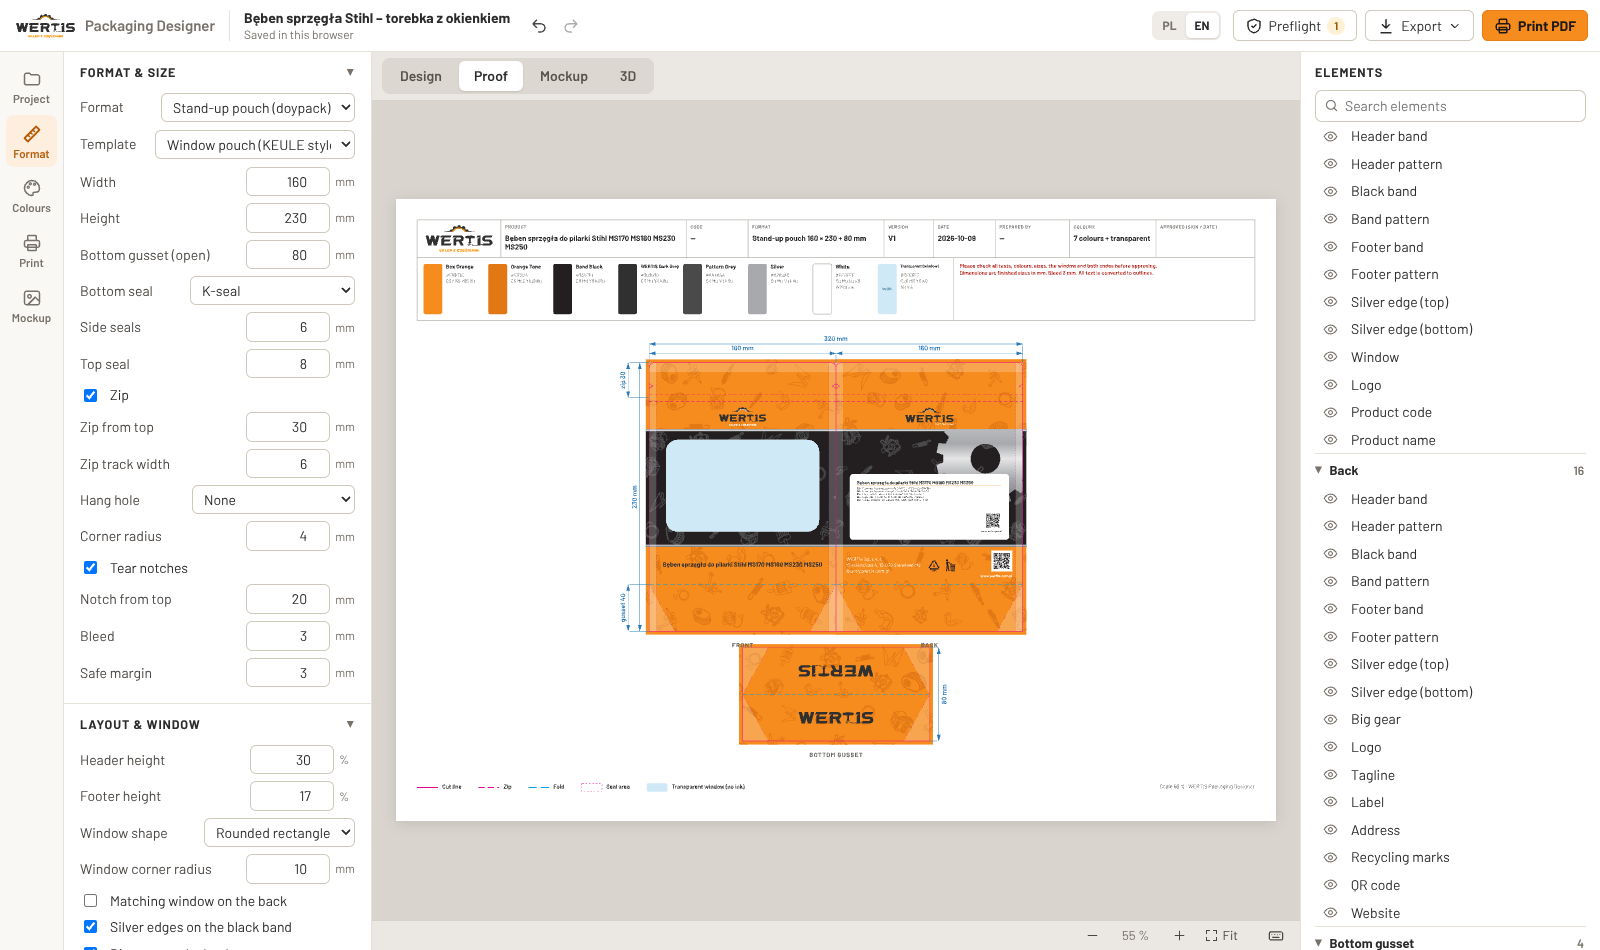
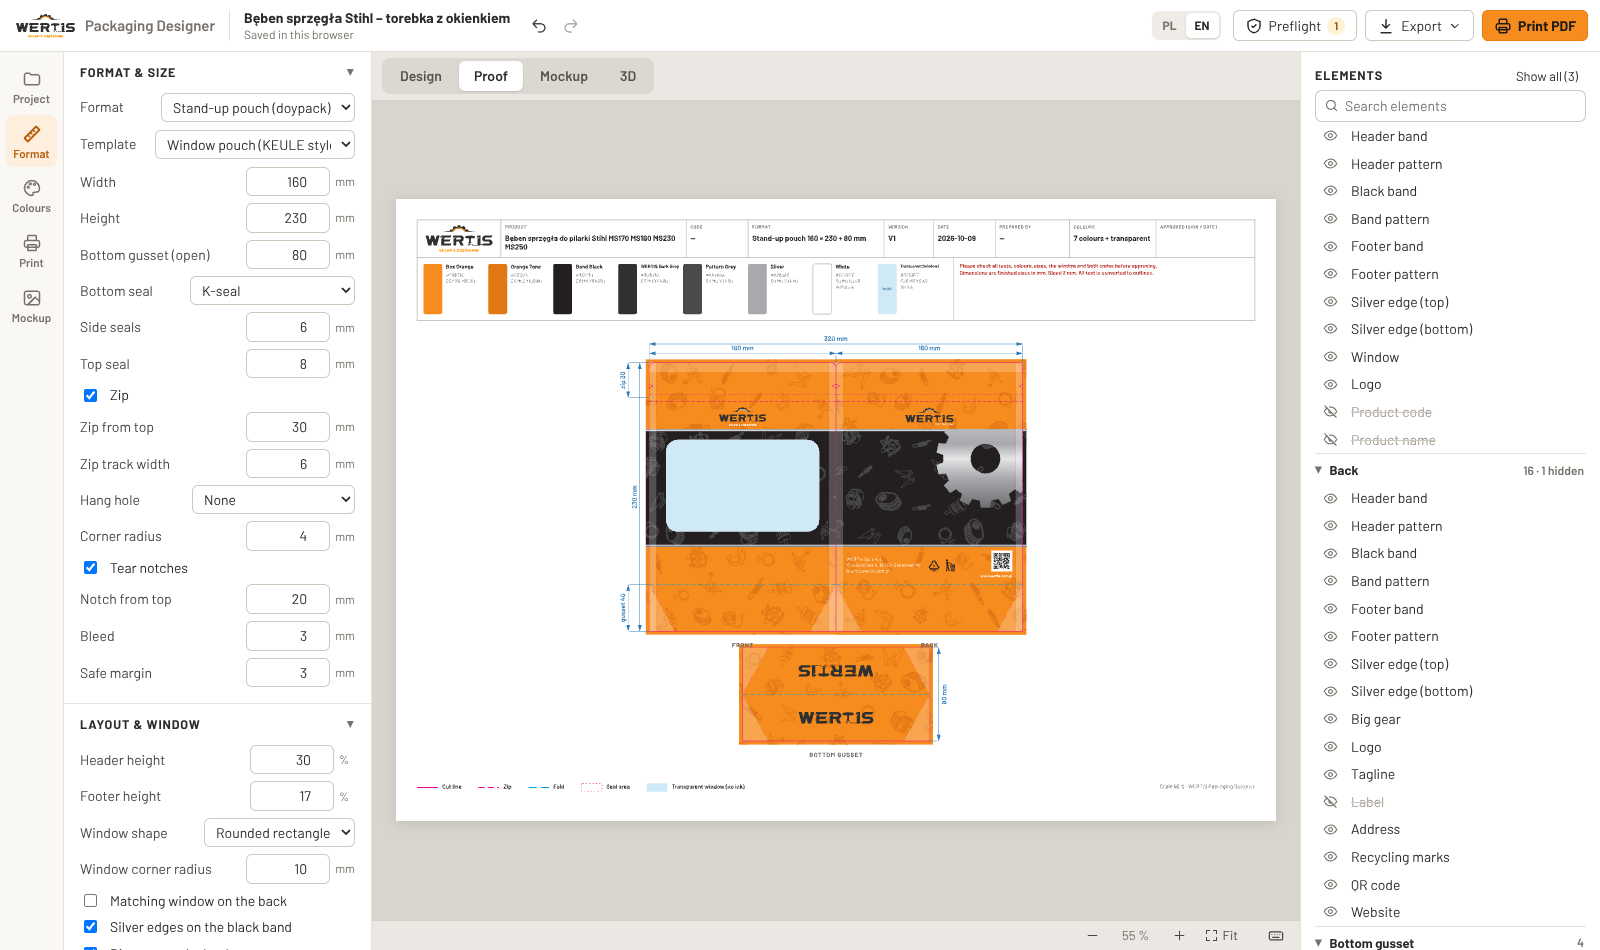
Universal pouch: product details start hidden, 3D kit off by default
A new pouch starts with its product name, product code and label
hidden (each shows again with its checkbox), and the 3D pack starts
empty. Templates declare hiddenByDefault; createDesign and
switchFormat apply it. The box keeps its own content.

Tests cover the hidden defaults for both pouch formats, the box, and
switching; the product tests choose the kit explicitly. The playtest
picks the kit before checking it.

Claude-Session: https://claude.ai/code/session_01FnVXzPk8CL7256twG34DiS

diff --git a/test/products.test.js b/test/products.test.js
@@ -9,6 +9,9 @@ import { design, env } from './helpers.js';
 
 const kit = PRODUCTS.clutchDrum;
 
+// The pouch with the Stihl clutch kit in it (a new design starts without it).
+const withKit = (d) => ({ ...d, mockup: { ...d.mockup, product3d: 'clutchDrum' } });
+
 test('the clutch kit is built at its real size: the drum is Ø69 mm', () => {
   const size = (id) => {
     const b = new THREE.Box3();
@@ -81,7 +84,7 @@ test('the kit is laid out inside the window with no two parts touching', () => {
 
 test('the parts sit behind the front window, and the pouch is lined', () => {
   const d = design();
-  const p = packFaces(d, env());
+  const p = packFaces(withKit(d), env());
   assert.deepEqual(Object.keys(p.faces).sort(), ['back', 'filmBack', 'filmFront', 'front', 'insideBack', 'insideFront']);
   assert.match(p.faces.filmFront, /<path d="M/, 'the front film covers the window');
   assert.doesNotMatch(p.faces.filmBack, /<path/, 'no back window, no film there');
@@ -97,12 +100,12 @@ test('the parts sit behind the front window, and the pouch is lined', () => {
   assert.equal(empty.product, null);
   assert.equal(empty.thick, empty.size.z);
   // A stand-up pouch holds it too; a box never does.
-  assert.equal(packFaces(design({ format: 'standUpPouch' }), env()).product.id, 'clutchDrum');
+  assert.equal(packFaces(withKit(design({ format: 'standUpPouch' })), env()).product.id, 'clutchDrum');
   assert.equal(packFaces(design({ format: 'tuckBox' }), env()).product, undefined);
   // With no window the parts still lie inside the seals.
   const shut = design();
   shut.options.windowShape = 'none';
-  const closed = packFaces(shut, env());
+  const closed = packFaces(withKit(shut), env());
   assert.doesNotMatch(closed.faces.filmFront, /<path/);
   for (const q of closed.product.parts) assert.ok(q.x > 5 && q.x < 245 && q.y > 31 && q.y < 345);
 });
@@ -118,10 +121,10 @@ test('pouches with a part are spaced by its thickness on the peg and in the stac
   assert.ok(ys[0] >= 38.6 / UNIT / 2, 'resting on the floor');
 });
 
-test('new pouch designs hold the clutch drum; boxes and older projects stay empty', () => {
-  assert.equal(createDesign({ format: 'flatPouch' }).mockup.product3d, 'clutchDrum');
+test('new designs start without the kit, so the pack is universal; a kit saved in a project stays', () => {
+  assert.equal(createDesign({ format: 'flatPouch' }).mockup.product3d, 'none');
   assert.equal(createDesign({ format: 'tuckBox' }).mockup.product3d, 'none');
   assert.equal(migrate({ schema: 'wertis-packaging', version: 1, format: 'flatPouch', mockup: { background: '#ffffff' } }).mockup.product3d, 'none');
-  const d = createDesign({ format: 'flatPouch' });
+  const d = withKit(createDesign({ format: 'flatPouch' }));
   assert.equal(migrate(JSON.parse(JSON.stringify(d))).mockup.product3d, 'clutchDrum');
 });

diff --git a/src/design.js b/src/design.js
@@ -17,6 +17,11 @@ export function defaultsOf(fields) {
   return normalizeDims(fields, {});
 }
 
+// The elements a template starts switched off (hidden), e.g. a pouch's product details.
+export function defaultHidden(templateId) {
+  return Object.fromEntries((TEMPLATES[templateId]?.hiddenByDefault ?? []).map((id) => [id, true]));
+}
+
 export function createDesign({ format = 'flatPouch', template, date = '' } = {}) {
   const f = FORMATS[format] ?? FORMATS.flatPouch;
   const t = TEMPLATES[template] ?? TEMPLATES[f.templates[0]];
@@ -32,12 +37,13 @@ export function createDesign({ format = 'flatPouch', template, date = '' } = {})
     palette: clone(WERTIS_PALETTE),
     colors: {}, // `${elementId}.${slot}` → colour reference (see brand/palette.js)
     layout: {}, // elementId → { x, y, w, h } as fractions of its panel
-    hidden: {}, // elementId → true
+    hidden: defaultHidden(t.id), // elementId → true
     pattern: { ...PATTERN_DEFAULTS },
     content: example.content,
     proof: { version: 'V1', date, author: '', notes: 'Please check all texts, colours, sizes, the window and both codes before approving.' },
-    // product3d: the part the 3D view puts in a pouch (three/products.js).
-    mockup: { photo: null, background: '#e8e4dc', angle: 0, product3d: f.example === 'box' ? 'none' : 'clutchDrum', film3d: 'heavy' },
+    // product3d: the part the 3D view puts in a pouch (three/products.js). Off by default: the
+    // pack starts universal, and the menu offers the kit.
+    mockup: { photo: null, background: '#e8e4dc', angle: 0, product3d: 'none', film3d: 'heavy' },
     export: exportDefaults(f.id),
   };
 }
@@ -97,7 +103,7 @@ export function serialize(design) {
 export function switchFormat(design, format, template) {
   const f = FORMATS[format];
   const t = TEMPLATES[template && f.templates.includes(template) ? template : f.templates[0]];
-  return { ...design, format: f.id, template: t.id, dims: defaultsOf(f.fields), options: { ...defaultsOf(t.options) }, layout: {}, hidden: {} };
+  return { ...design, format: f.id, template: t.id, dims: defaultsOf(f.fields), options: { ...defaultsOf(t.options) }, layout: {}, hidden: defaultHidden(t.id) };
 }
 
 // Immutable update along a path: setIn(d, ['content', 'sku'], 'X') returns a new design

diff --git a/test/flatPouch.test.js b/test/flatPouch.test.js
@@ -2,7 +2,8 @@ import { test } from 'node:test';
 import assert from 'node:assert/strict';
 import { layout, FIELDS } from '../src/formats/flatPouch.js';
 import { normalizeDims } from '../src/formats/common.js';
-import { geometry, panelsWithElements } from '../src/render/sheet.js';
+import { geometry, panelsWithElements, renderSheet } from '../src/render/sheet.js';
+import { createDesign, switchFormat } from '../src/design.js';
 import { design, env } from './helpers.js';
 
 const defaults = normalizeDims(FIELDS, {});
@@ -67,4 +68,18 @@ test('a QR code on the back links to the website: above the website line, at the
   const moved = panelsWithElements({ ...d, layout: { 'back.urlQr': { x: 0.2, y: 0.5, w: 0.1, h: 0.1 } } }, env(), geometry(d));
   const q2 = moved.flatMap((p) => p.elements).find((e) => e.id === 'back.urlQr');
   assert.ok(q2.box.x < qr.box.x, 'the box is where it was put');
+});
+
+test('a new pouch is universal: its product name, code and label start hidden, and show again on request', () => {
+  const PRODUCT = { 'front.sku': true, 'front.name': true, 'back.label': true };
+  for (const format of ['flatPouch', 'standUpPouch']) assert.deepEqual(createDesign({ format }).hidden, PRODUCT, format);
+  assert.deepEqual(createDesign({ format: 'tuckBox' }).hidden, {}, 'the box keeps its own product text');
+  // Switching a box to a pouch starts universal too.
+  assert.deepEqual(switchFormat(createDesign({ format: 'tuckBox' }), 'flatPouch').hidden, PRODUCT);
+  // Hidden elements are not drawn; taking the hiding off draws them.
+  const d = createDesign({ format: 'flatPouch' });
+  const drawn = (x) => renderSheet(x, env(), { mode: 'design' }).hits.map((h) => h.id);
+  assert.ok(!drawn(d).includes('front.name') && !drawn(d).includes('back.label'));
+  const shown = { ...d, hidden: {} };
+  assert.ok(drawn(shown).includes('front.name') && drawn(shown).includes('back.label'));
 });

diff --git a/scripts/playtest.js b/scripts/playtest.js
@@ -337,6 +337,9 @@ export async function playtest() {
     await page.click('[data-tab="3d"]');
     await page.waitForSelector('.view3d[data-ready="1"]', { timeout: 90000 });
     assert.equal(await page.evaluate(() => window.wertis.stage.view3d.sceneName), 'shop', 'pouches start on the shop hooks');
+    // A new pack starts without the kit: choose it, then check it.
+    await page.selectOption('#product3d', 'clutchDrum');
+    await page.waitForFunction(() => window.wertis.stage.view3d.pack.product?.parts.length === 6 && window.wertis.stage.view3d.items.every((i) => i.partMeshes.length === 6), null, { timeout: 90000 });
     // The clutch kit lies in every pouch and sags to the bottom of the hanging bags;
     // "Nothing" empties them, and back; the film can be changed.
     const kit = await page.evaluate(async () => {

diff --git a/test/view.test.js b/test/view.test.js
@@ -51,7 +51,7 @@ test('ruler ticks: a round step, numbered ticks far enough apart, finer ones bet
 });
 
 test('quick actions: hide, show all, reset the position or the colours', () => {
-  const d = { ...design(), layout: { win: { x: 0.1, y: 0.1, w: 0.5, h: 0.5 } }, colors: { 'win.fill': { swatch: 'x' }, 'winter.fill': { swatch: 'y' }, 'win.edge': { none: true } } };
+  const d = { ...design(), hidden: {}, layout: { win: { x: 0.1, y: 0.1, w: 0.5, h: 0.5 } }, colors: { 'win.fill': { swatch: 'x' }, 'winter.fill': { swatch: 'y' }, 'win.edge': { none: true } } };
   const h1 = hide(d, 'logo');
   assert.equal(h1.hidden.logo, true);
   assert.equal(hiddenCount(hide(h1, 'win')), 2);

diff --git a/src/templates/pouchWindow.js b/src/templates/pouchWindow.js
@@ -188,4 +188,8 @@ export function gusset(ctx) {
   return els;
 }
 
-export const pouchWindow = { id: 'pouchWindow', label: 'Window pouch (KEULE style)', options: OPTIONS, panels: { front, back, gusset } };
+// The product's own details: its name, code and label. A new pouch starts with them switched off
+// (hidden), so the default pack is universal; each shows again with its checkbox in the inspector.
+const PRODUCT_ELEMENTS = ['front.sku', 'front.name', 'back.label'];
+
+export const pouchWindow = { id: 'pouchWindow', label: 'Window pouch (KEULE style)', options: OPTIONS, panels: { front, back, gusset }, hiddenByDefault: PRODUCT_ELEMENTS };

diff --git a/README.md b/README.md
@@ -160,9 +160,11 @@ that the files are byte-for-byte the same in both languages.
 
 ## Example products
 
-- **Pouches** start universal: the example names the Stihl MS170 / MS180 clutch drum kit
-  ("Bęben sprzęgła Stihl"), with no product code and no barcode. Preflight then notes that
-  there is no EAN-13 until you type in the real one.
+- **Pouches** start universal. The product's own details are hidden: its name, its product
+  code and its label (the card's *Show this element* checkbox brings each back). There is no
+  barcode, and the 3D pack starts empty (choose the Stihl clutch kit in the 3D toolbar).
+  Preflight notes the missing EAN-13 until you type in the real one. The texts keep the
+  example Stihl name, so a shown element has words to start from.
 - **Boxes** start with the W09-0414 carburettor from its box artwork.
 
 ## Formats
